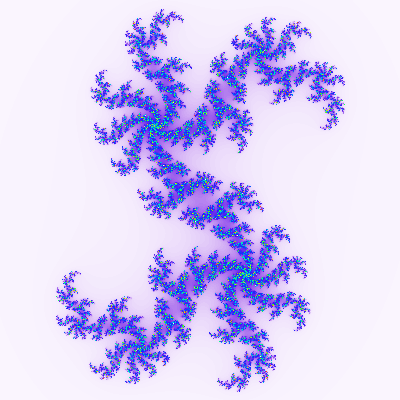
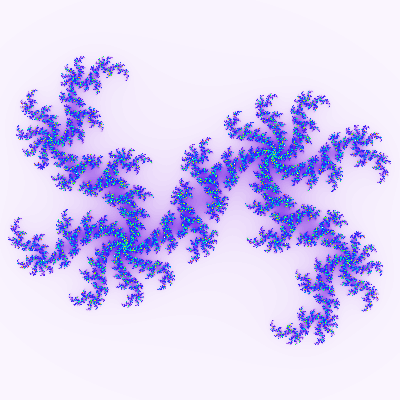
...

diff --git a/include/fx.php b/include/fx.php
@@ -78,7 +78,7 @@
   pixel == 1.0 ? 0.0 : pixel" \
   \( -size 1x1 xc:white xc:red xc:orange xc:yellow xc:green1 xc:cyan xc:blue \
      xc:blueviolet xc:white -reverse +append -filter Cubic -resize 1024x1! \) \
-  -clut julia-set.png
+  -clut -rotate -90 julia-set.png
 </code></pre>
 
 <ul>
